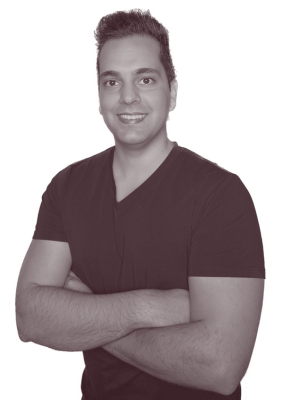
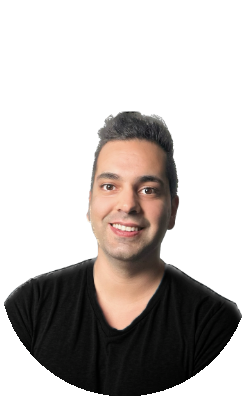
feat: new homepage profile pics :lipstick:

diff --git a/src/pages/myNfts/index.tsx b/src/pages/myNfts/index.tsx
@@ -1,5 +1,5 @@
 import { useEffect } from 'react';
-import { switchNetworkIfNeeded} from '../../pages/api/ethereum-api'
+import { switchNetworkIfNeeded } from '../../pages/api/ethereum-api'
 import NftCard from '@/components/NftCards/NftCard';
 
 
@@ -12,8 +12,8 @@ export default function Index() {
 
   return (
     <div className='flex flex-col  w-full justify-center items-center relative mb-32 pt-20'>
-      <section className='h-[20vh] w-full flex flex-col lg:flex-row justify-center items-center max-w-7xl max-lg:mb-24' >
-        <div className=' my-14 md:my-32 lg:my-0 lg:w-2/4 space-y-5' >
+      <section className=' my-10 md:my-20 w-full flex flex-col lg:flex-row justify-center items-center max-w-7xl' >
+        <div className='  lg:w-2/4 space-y-5' >
           <h1 className='xl:text-5xl text-4xl font-bold' >
             Meine Gesammelten <span
               className='bg-gradient-to-r from-primaryBlue via-secondaryPurple to-primaryPink bg-clip-text text-transparent'
@@ -21,28 +21,29 @@ export default function Index() {
               NFTs
             </span>
           </h1>
-          <h2>Willkommen in deiner NFT-Sammlung! Hier siehst du alle NFTs, die du durch das Absolvieren der Lern-Quests in unseren Bootcamps verdient hast. 
-            Verbinde deine Ethereum Wallet, um deine Fortschritts-NFTs zu sehen und freu dich auf weitere spannende Lernabenteuer! 
-            Viel Spaß beim Lernen und Sammeln!</h2>
-         
+          <h2>
+            Willkommen in deiner NFT-Sammlung! Hier siehst du alle NFTs, die du durch das Absolvieren der Lern-Quests in unseren Bootcamps verdient hast.
+            Verbinde deine Ethereum Wallet, um deine Fortschritts-NFTs zu sehen und freu dich auf weitere spannende Lernabenteuer!
+            Viel Spaß beim Lernen und Sammeln!
+          </h2>
         </div>
 
       </section>
 
-      <section className='mt-22 px-5 w-full mb-44 nft-card-section' >
+      <section className='mt-22 px-5 w-full mb-44 nft-card-section mt-10' >
         <h2 className="xl:text-2xl text-2xl font-bold">Ethereum Quests</h2>
         <div className="nft-card-container flex relative mt-5 mb-20">
-          
-          <NftCard questSectionId={'eth-quest-1'} questIndex={0}/>
-          <NftCard questSectionId={'eth-quest-2'} questIndex={1}/>
-          <NftCard questSectionId={'eth-quest-3'} questIndex={2}/>
-          <NftCard questSectionId={'eth-quest-4'} questIndex={3}/>
-          <NftCard questSectionId={'eth-quest-5'} questIndex={4}/>
-          <NftCard questSectionId={'eth-quest-6'} questIndex={5}/>
+
+          <NftCard questSectionId={'eth-quest-1'} questIndex={0} />
+          <NftCard questSectionId={'eth-quest-2'} questIndex={1} />
+          <NftCard questSectionId={'eth-quest-3'} questIndex={2} />
+          <NftCard questSectionId={'eth-quest-4'} questIndex={3} />
+          <NftCard questSectionId={'eth-quest-5'} questIndex={4} />
+          <NftCard questSectionId={'eth-quest-6'} questIndex={5} />
         </div>
         <h2 className="xl:text-2xl text-2xl font-bold">Polkadot Quests</h2>
         <div className="nft-card-container flex relative mt-5 mb-20">
-          
+
           <NftCard questSectionId={'dot-quest-1'} questIndex={0} />
           <NftCard questSectionId={'dot-quest-2'} questIndex={1} />
           <NftCard questSectionId={'dot-quest-3'} questIndex={2} />

diff --git a/src/components/LandingPageSections/AboutUs.tsx b/src/components/LandingPageSections/AboutUs.tsx
@@ -46,8 +46,71 @@ export default function AboutUs() {
           </button>
           {/* <SecondaryButton onClick={onOpen}>Mehr lesen</SecondaryButton> */}
         </div>
-        <div className="flex flex-wrap justify-center gap-5 gap-y-10 lg:gap-16 xl:gap-28 " >
-          <div
+        <div className="flex flex-wrap justify-center gap-x-5 lg:gap-16 xl:gap-28 " >
+
+          <div>
+            <div className="relative w-[250px] h-[397px]" >
+              <div className="absolute bg-gradient-to-br
+              from-primaryBlue via-secondaryPurple to-primaryPink
+              rounded-full w-[250px] h-[250px] bottom-0
+              "
+              >
+                <div className="absolute w-[250px] h-[397px] bottom-0 rounded-b-full" >
+                  <Image
+                    src={"/home/aboutUs/jan.png"}
+                    className="rounded-3xl"
+                    fill
+                    loading='lazy'
+                    alt="Profil picture Jan"
+                  />
+                </div>
+              </div>
+            </div>
+            <h4 className="font-bold mb-2 text-2xl text-center mt-5" >Jan</h4>
+          </div>
+
+          <div>
+            <div className="relative w-[250px] h-[397px]" >
+              <div className="absolute bg-gradient-to-br
+              from-primaryBlue via-secondaryPurple to-primaryPink
+              rounded-full w-[250px] h-[250px] bottom-0
+              "
+              >
+                <div className="absolute w-[250px] h-[397px] bottom-0 rounded-b-full" >
+                  <Image
+                    src={"/home/aboutUs/sohejl.png"}
+                    className="rounded-3xl"
+                    fill
+                    loading='lazy'
+                    alt="Profil picture Sohejl"
+                  />
+                </div>
+              </div>
+            </div>
+            <h4 className="font-bold mb-2 text-2xl text-center mt-5" >Sohejl</h4>
+          </div>
+
+          <div>
+            <div className="relative w-[250px] h-[397px]" >
+              <div className="absolute bg-gradient-to-br
+              from-primaryBlue via-secondaryPurple to-primaryPink
+              rounded-full w-[250px] h-[250px] bottom-0
+              "
+              >
+                <div className="absolute w-[250px] h-[397px] bottom-0 rounded-b-full" >
+                  <Image
+                    src={"/home/aboutUs/rustam.png"}
+                    className="rounded-3xl"
+                    fill
+                    loading='lazy'
+                    alt="Profil picture Rustam"
+                  />
+                </div>
+              </div>
+            </div>
+            <h4 className="font-bold mb-2 text-2xl text-center mt-5" >Rustam</h4>
+          </div>
+          {/* <div
             // className="flex flex-col items-center"
             className="bg-gradient-to-br
               from-primaryBlue via-secondaryPurple to-primaryPink
@@ -104,9 +167,10 @@ export default function AboutUs() {
                 />
               </div>
             </div>
-          </div>
-        </div>
+          </div> */}
 
+
+        </div>
 
         {showPopup ? (
           <>

diff --git a/src/components/Modals/VideoModal.tsx b/src/components/Modals/VideoModal.tsx
@@ -99,15 +99,15 @@ export default function LessonPage({ currentLesson, modalOpen, onClose, setUserP
     }
 
     return (
-        <div className='fixed backdrop-blur-md top-0 w-screen h-screen left-0 z-50 flex items-center justify-center' >
-            <div className='relative w-[80rem] bg-gray-300 dark:bg-bgDarkerGray rounded-lg flex flex-col justify-center gap-5 px-8 py-16 lesson-page-modal' >
+        <div className='fixed backdrop-blur-md top-0 w-screen h-[100vh] left-0 z-50 flex items-center justify-center px-2' >
+            <div className='relative w-[80rem] max-h-[80vh] bg-gray-300 dark:bg-bgDarkerGray rounded-lg flex flex-col justify-center gap-5 px-8 py-16 lesson-page-modal' >
                 <VideoWithTranscript currentLesson={lesson} setUserProgress={setUserProgress} 
                     displayNextVideoInModal={displayNextVideoInModal} displayPrevVideoInModal={displayPrevVideoInModal}
                     currentQuest={currentQuest} lessonIndex={lessonIndex} replayVideoInModal={replayVideoInModal} isQuestSection  />
                 {/* <LessonsBurgerMenu /> */}
                 {/* <LinksAndIndexBurger /> */}
 
-                <GeneralButton onClick={() => handleClose()}>Schließen</GeneralButton>
+                <GeneralButton onClick={() => handleClose()} customClassButton='w-max mx-auto'>Schließen</GeneralButton>
             </div>
         </div>
     )

diff --git a/src/components/LandingPageSections/CourseOverview.tsx b/src/components/LandingPageSections/CourseOverview.tsx
@@ -25,7 +25,7 @@ export default function CourseOverview() {
           Ethereum und Polkadot. Lerne auf deine eigene Art und Weise und erhalte Belohnungen in Form von 
           NFTs für deinen Fortschritt. Mach den ersten Schritt in die Zukunft der Finanzen mit TEACHMEDEFI!
             </p>
-          <div className="flex" >
+          <div className="flex flex-wrap" >
             {courseSections && courseSections.map((course, i) => (
               <div key={course.title} className="flex" >
                 <Link href={course.href}  className="font-bold text-xl" >{course.title}</Link>

diff --git a/src/data/coursesOverviewLinks.ts b/src/data/coursesOverviewLinks.ts
@@ -13,8 +13,8 @@ export const courseSections: Course[] =[
     title: "Polkadot",
     href: "/dot"
   },
-  // {
-  //   title: "Bitcoin",
-  //   href: "/btc"
-  // },
+  {
+    title: "Bitcoin",
+    href: "/btc"
+  },
 ]
